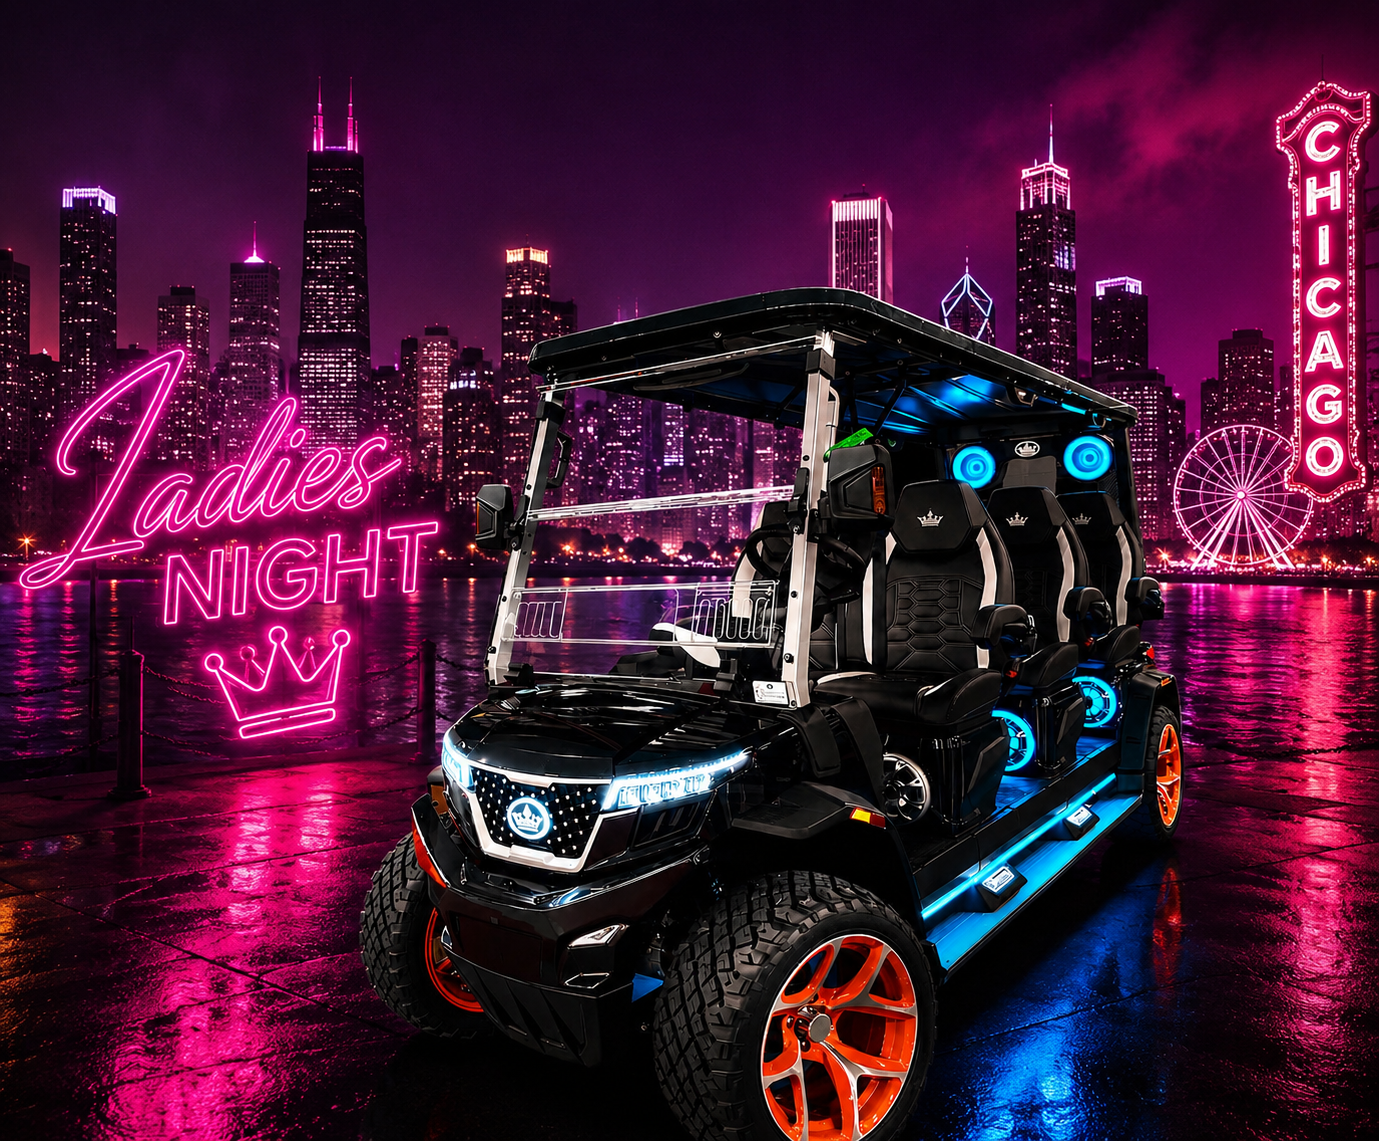
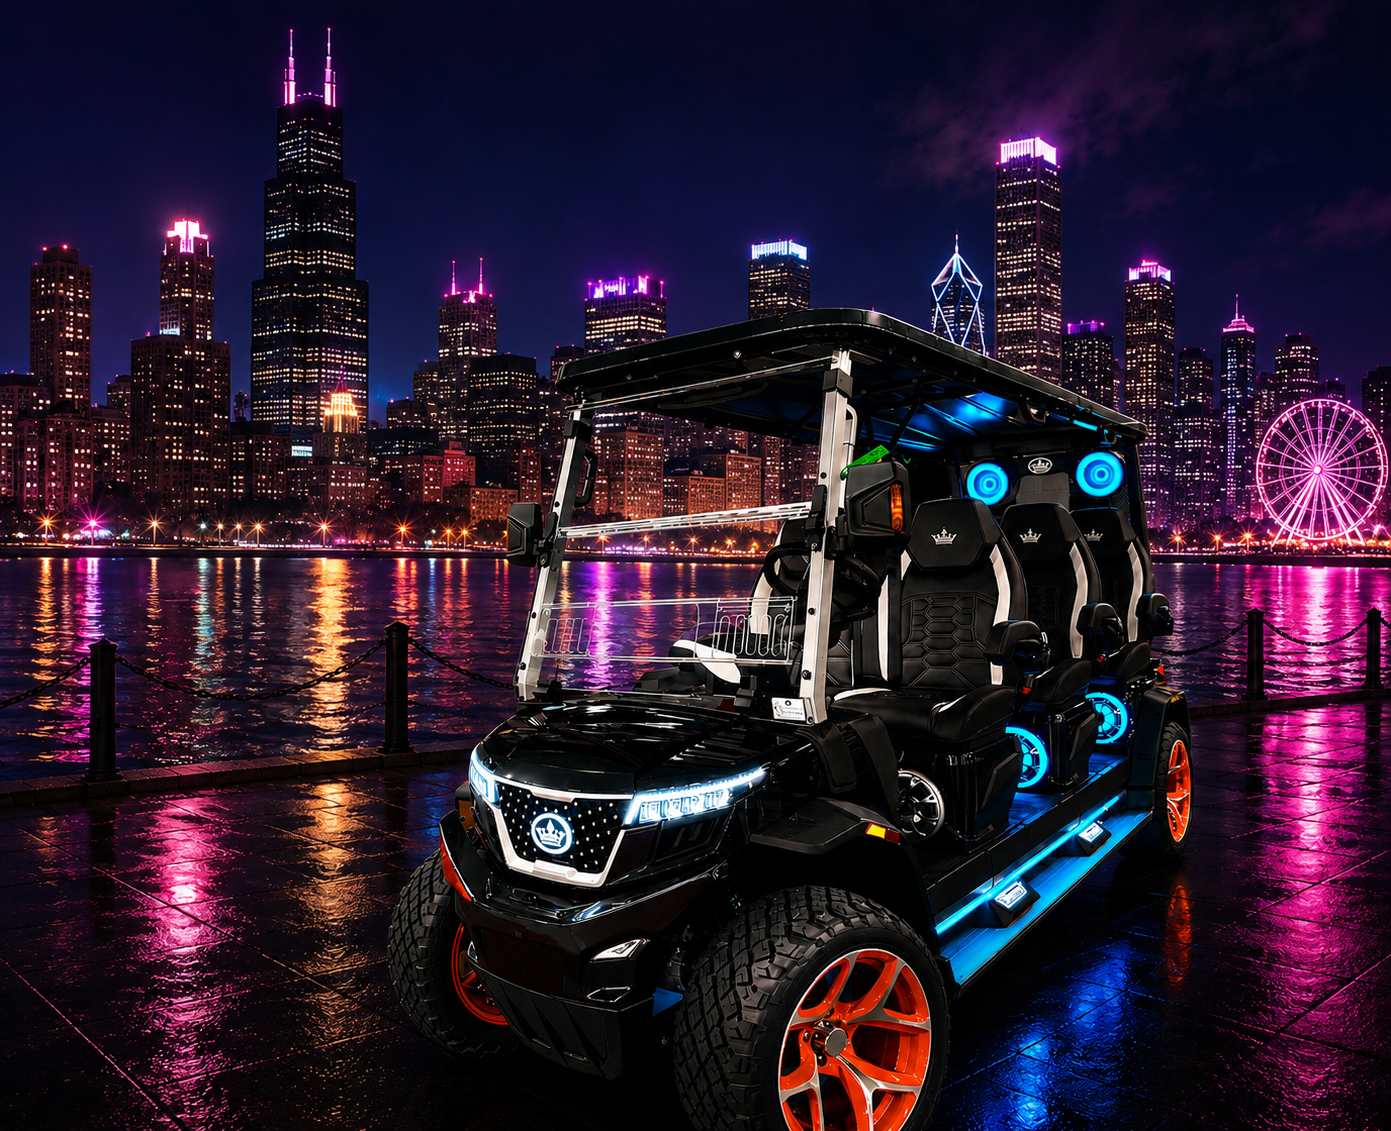
New Ladies Night photo; branded contact page with skyline background + glass cards

diff --git a/styles.css b/styles.css
@@ -692,10 +692,10 @@ a   { color: inherit; text-decoration: none; }
   background-position: 68% center;
 }
 
-/* R&B Ladies Night — focus right: cart + skyline, crops out left-side neon text */
+/* R&B Ladies Night — cart centered against Chicago skyline */
 .ec-img-ladies {
   background:
-    url('./glo-karts-ladies-night.jpg') 78% 30% / cover no-repeat;
+    url('./glo-karts-ladies-night.jpg') center 22% / cover no-repeat;
   background-color: #07020f;
 }
 
@@ -2506,11 +2506,18 @@ a   { color: inherit; text-decoration: none; }
 /* ── Contact Page ─────────────────────────────────────────── */
 #contact-page {
   min-height: calc(100vh - 72px);
-  background: #000;
+  position: relative;
   display: -webkit-flex; display: flex;
   -webkit-align-items: flex-start; align-items: flex-start;
   -webkit-justify-content: center; justify-content: center;
   padding: 130px 5% 6rem;
+  background:
+    linear-gradient(to bottom,
+      rgba(0,0,0,0.78) 0%,
+      rgba(0,0,0,0.60) 40%,
+      rgba(0,0,0,0.82) 100%),
+    url('./glo-karts-ladies-night.jpg') center 20% / cover no-repeat;
+  background-color: #000;
 }
 .cp-inner {
   max-width: 820px; width: 100%;
@@ -2519,37 +2526,51 @@ a   { color: inherit; text-decoration: none; }
   -webkit-align-items: center; align-items: center;
   text-align: center;
   gap: 2.5rem;
+  position: relative; z-index: 1;
+}
+.cp-eyebrow {
+  font-size: 0.62rem; font-weight: 700;
+  letter-spacing: 0.28em; text-transform: uppercase;
+  color: var(--blue); margin: 0;
 }
 .cp-heading {
   font-family: 'Bebas Neue', sans-serif;
-  font-size: clamp(2rem, 5.5vw, 3.4rem);
-  letter-spacing: 0.06em; color: #fff; line-height: 1.05;
+  font-size: clamp(2.2rem, 6vw, 3.8rem);
+  letter-spacing: 0.06em; color: #fff; line-height: 1.0;
+  margin-top: -1rem;
+  text-shadow: 0 2px 24px rgba(0,0,0,0.7);
 }
 .cp-sub {
   font-size: clamp(0.95rem, 1.5vw, 1.08rem);
-  color: var(--muted); line-height: 1.7;
+  color: rgba(255,255,255,0.65); line-height: 1.7;
   max-width: 520px; margin-top: -1.25rem;
 }
 .cp-cards {
   display: -webkit-flex; display: flex;
   -webkit-flex-direction: column; flex-direction: column;
-  gap: 1.25rem; width: 100%;
+  gap: 1rem; width: 100%;
 }
 @media (min-width: 640px) {
   .cp-cards { -webkit-flex-direction: row; flex-direction: row; -webkit-align-items: stretch; align-items: stretch; }
   .cp-card  { -webkit-flex: 1 1 0; flex: 1 1 0; }
 }
 .cp-card {
-  border: 1px solid var(--border);
-  border-radius: 12px;
+  background: rgba(0,0,0,0.55);
+  -webkit-backdrop-filter: blur(12px); backdrop-filter: blur(12px);
+  border: 1px solid rgba(255,255,255,0.08);
+  border-radius: 14px;
   padding: 1.75rem 1.5rem;
   display: -webkit-flex; display: flex;
   -webkit-flex-direction: column; flex-direction: column;
   -webkit-align-items: center; align-items: center;
   gap: 0.55rem; text-align: center;
-  -webkit-transition: border-color 0.2s; transition: border-color 0.2s;
+  -webkit-transition: border-color 0.25s, background 0.25s;
+  transition: border-color 0.25s, background 0.25s;
 }
-.cp-card:hover { border-color: rgba(255,255,255,0.12); }
+.cp-card:hover {
+  border-color: rgba(0,195,255,0.22);
+  background: rgba(0,0,0,0.68);
+}
 .cp-card-label {
   font-size: 0.62rem; font-weight: 700;
   letter-spacing: 0.22em; text-transform: uppercase;
@@ -2564,15 +2585,18 @@ a   { color: inherit; text-decoration: none; }
 }
 .cp-card-value:hover { color: var(--blue); }
 .cp-card-desc {
-  font-size: 0.84rem; color: var(--muted);
+  font-size: 0.84rem; color: rgba(255,255,255,0.55);
   line-height: 1.6; margin: 0;
 }
 .cp-event-btn {
   margin-top: auto; padding-top: calc(0.6em + 0.5rem);
 }
 .cp-hours {
-  border-top: 1px solid var(--border);
-  padding-top: 2.25rem; width: 100%;
+  background: rgba(0,0,0,0.50);
+  -webkit-backdrop-filter: blur(12px); backdrop-filter: blur(12px);
+  border: 1px solid rgba(255,255,255,0.07);
+  border-radius: 14px;
+  padding: 1.75rem 2.5rem; width: 100%;
   display: -webkit-flex; display: flex;
   -webkit-flex-direction: column; flex-direction: column;
   -webkit-align-items: center; align-items: center;
@@ -2588,5 +2612,5 @@ a   { color: inherit; text-decoration: none; }
   font-size: 1.5rem; letter-spacing: 0.08em; color: #fff;
 }
 .cp-hours-time {
-  font-size: 0.95rem; color: var(--muted);
+  font-size: 0.95rem; color: rgba(255,255,255,0.58);
 }

diff --git a/contact.html b/contact.html
@@ -70,7 +70,8 @@
 
     <div class="cp-inner">
 
-      <h1 class="cp-heading" id="cp-heading">GET IN TOUCH WITH GLO KARTS</h1>
+      <p class="cp-eyebrow">Glo Karts Chicago</p>
+      <h1 class="cp-heading" id="cp-heading">GET IN TOUCH</h1>
 
       <p class="cp-sub">Questions about booking, an upcoming ride, or planning your Glo experience? We're here to help.</p>
 
